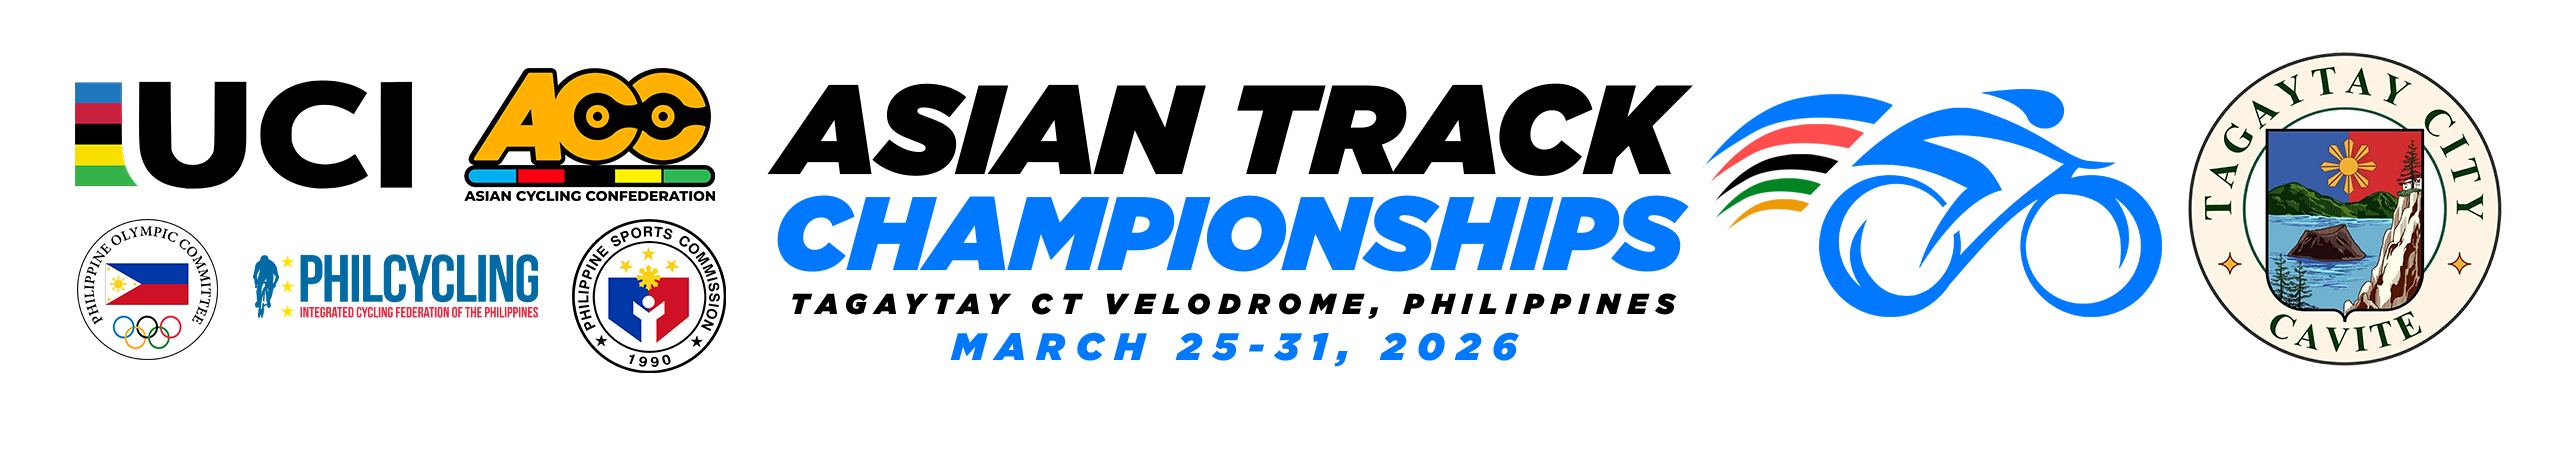
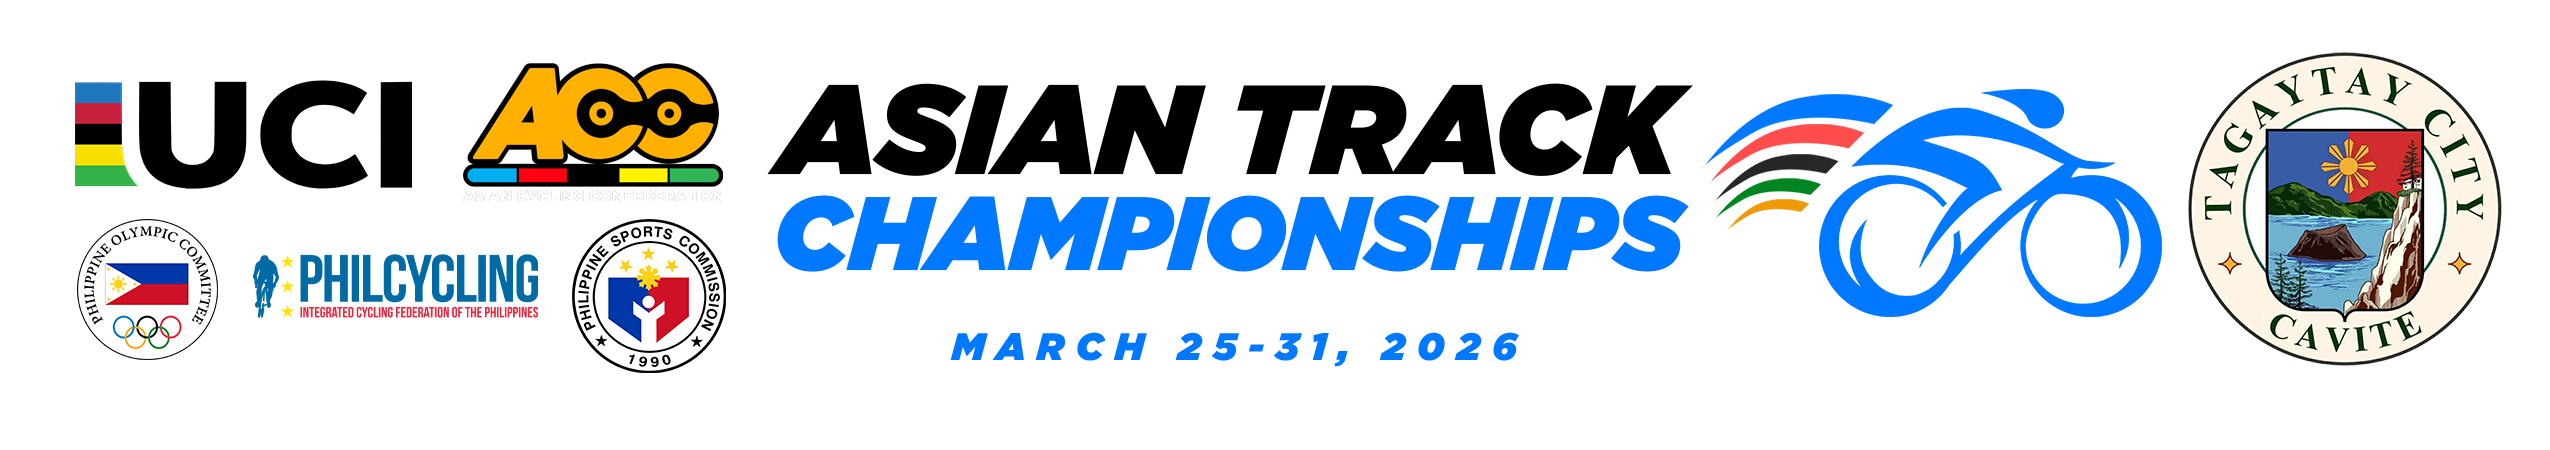
updated

Changed region(s): [[0.1859, 0.1244, 0.3098, 0.4667], [0.3098, 0.6533, 0.6816, 0.7156], [0.6816, 0.3422, 0.7435, 0.4044]]

diff --git a/about.html b/about.html
@@ -53,7 +53,35 @@
 		background-color var(--trans-dur),
 		color var(--trans-dur);
 } */
-        
+         .letterhead {
+            /* background: #f6f7e3; */
+            /* background: rgba(255, 255, 255, 0.95); */
+            /* border-bottom: 1px solid #e5e5e5; */
+        }
+
+        .letterhead-inner {
+            display: flex;
+            justify-content: center; /* centers horizontally */
+            align-items: center;     /* centers vertically */
+            padding: 10px 20px;
+        }
+
+        .letterhead-logo {
+            max-width: 40%;
+            height: auto;
+        }
+
+        .letterhead-logo {
+            max-width: 750px;
+            width: 100%;
+        }
+
+        @media (max-width: 768px) {
+            .letterhead-logo {
+                max-width: 90%;
+            }
+        }
+
         .bike {
             display: block;
             margin: auto;
@@ -332,10 +360,15 @@
     <header id="rtsHeader" class="rts-header1">
         <div class="navbar-sticky">
             <div class="navbar-part navbar-part1">
-                <div class="container">
+           
                     <div class="navbar-inner">
-                        <a href="index.html" class="logo"><img src="assets/images/2023_ACC_BMX_Letterhead_1.png" alt="sportius-logo" width="110" height="150"></a>
-                        <a href="index.html" class="logo-sticky"><img src="assets/images/2023_ACC_BMX_Letterhead_1.png" alt="kester-logo"></a>
+                        <div class="letterhead">
+                            <div class="letterhead-inner">
+                                <img src="assets/images/banner/acc2026-lh.png" alt="ACC Letterhead" class="letterhead-logo">
+                            </div>
+                        </div>
+                        <!-- <a href="index.html" class="logo"><img src="assets/images/2023_ACC_BMX_Letterhead_1.png" alt="sportius-logo" width="110" height="150"></a>
+                        <a href="index.html" class="logo-sticky"><img src="assets/images/2023_ACC_BMX_Letterhead_1.png" alt="kester-logo"></a> -->
                         <div class="rts-menu">
                             <nav class="menus menu-toggle">
                                 <ul class="nav__menu">

diff --git a/team.html b/team.html
@@ -53,7 +53,35 @@
 		background-color var(--trans-dur),
 		color var(--trans-dur);
 } */
-        
+         .letterhead {
+            /* background: #f6f7e3; */
+            /* background: rgba(255, 255, 255, 0.95); */
+            /* border-bottom: 1px solid #e5e5e5; */
+        }
+
+        .letterhead-inner {
+            display: flex;
+            justify-content: center; /* centers horizontally */
+            align-items: center;     /* centers vertically */
+            padding: 10px 20px;
+        }
+
+        .letterhead-logo {
+            max-width: 40%;
+            height: auto;
+        }
+
+        .letterhead-logo {
+            max-width: 750px;
+            width: 100%;
+        }
+
+        @media (max-width: 768px) {
+            .letterhead-logo {
+                max-width: 90%;
+            }
+        }
+
         .bike {
             display: block;
             margin: auto;
@@ -329,9 +357,15 @@
         <div class="navbar-sticky">
             <div class="navbar-part navbar-part1">
                 <div class="container">
+   
                     <div class="navbar-inner">
-                        <a href="index.html" class="logo"><img src="assets/images/2023_ACC_BMX_Letterhead_1.png" alt="sportius-logo" width="110" height="150"></a>
-                        <a href="index.html" class="logo-sticky"><img src="assets/images/2023_ACC_BMX_Letterhead_1.png" alt="kester-logo"></a>
+                        <div class="letterhead">
+                            <div class="letterhead-inner">
+                                <img src="assets/images/banner/acc2026-lh.png" alt="ACC Letterhead" class="letterhead-logo">
+                            </div>
+                        </div>
+                        <!-- <a href="index.html" class="logo"><img src="assets/images/2023_ACC_BMX_Letterhead_1.png" alt="sportius-logo" width="110" height="150"></a>
+                        <a href="index.html" class="logo-sticky"><img src="assets/images/2023_ACC_BMX_Letterhead_1.png" alt="kester-logo"></a> -->
                         <div class="rts-menu">
                             <nav class="menus menu-toggle">
                                 <ul class="nav__menu">

diff --git a/start-list.html b/start-list.html
@@ -53,7 +53,35 @@
 		background-color var(--trans-dur),
 		color var(--trans-dur);
 } */
-        
+         .letterhead {
+            /* background: #f6f7e3; */
+            /* background: rgba(255, 255, 255, 0.95); */
+            /* border-bottom: 1px solid #e5e5e5; */
+        }
+
+        .letterhead-inner {
+            display: flex;
+            justify-content: center; /* centers horizontally */
+            align-items: center;     /* centers vertically */
+            padding: 10px 20px;
+        }
+
+        .letterhead-logo {
+            max-width: 40%;
+            height: auto;
+        }
+
+        .letterhead-logo {
+            max-width: 750px;
+            width: 100%;
+        }
+
+        @media (max-width: 768px) {
+            .letterhead-logo {
+                max-width: 90%;
+            }
+        }
+
         .bike {
             display: block;
             margin: auto;
@@ -330,8 +358,13 @@
             <div class="navbar-part navbar-part1">
                 <div class="container">
                     <div class="navbar-inner">
-                        <a href="index.html" class="logo"><img src="assets/images/2023_ACC_BMX_Letterhead_1.png" alt="sportius-logo" width="110" height="150"></a>
-                        <a href="index.html" class="logo-sticky"><img src="assets/images/2023_ACC_BMX_Letterhead_1.png" alt="kester-logo"></a>
+                        <div class="letterhead">
+                            <div class="letterhead-inner">
+                                <img src="assets/images/banner/acc2026-lh.png" alt="ACC Letterhead" class="letterhead-logo">
+                            </div>
+                        </div>
+                        <!-- <a href="index.html" class="logo"><img src="assets/images/2023_ACC_BMX_Letterhead_1.png" alt="sportius-logo" width="110" height="150"></a>
+                        <a href="index.html" class="logo-sticky"><img src="assets/images/2023_ACC_BMX_Letterhead_1.png" alt="kester-logo"></a> -->
                         <div class="rts-menu">
                             <nav class="menus menu-toggle">
                                 <ul class="nav__menu">

diff --git a/venue.html b/venue.html
@@ -53,7 +53,35 @@
 		background-color var(--trans-dur),
 		color var(--trans-dur);
 } */
-        
+         .letterhead {
+            /* background: #f6f7e3; */
+            /* background: rgba(255, 255, 255, 0.95); */
+            /* border-bottom: 1px solid #e5e5e5; */
+        }
+
+        .letterhead-inner {
+            display: flex;
+            justify-content: center; /* centers horizontally */
+            align-items: center;     /* centers vertically */
+            padding: 10px 20px;
+        }
+
+        .letterhead-logo {
+            max-width: 40%;
+            height: auto;
+        }
+
+        .letterhead-logo {
+            max-width: 750px;
+            width: 100%;
+        }
+
+        @media (max-width: 768px) {
+            .letterhead-logo {
+                max-width: 90%;
+            }
+        }
+
         .bike {
             display: block;
             margin: auto;
@@ -347,8 +375,13 @@
             <div class="navbar-part navbar-part1">
                 <div class="container">
                     <div class="navbar-inner">
-                        <a href="index.html" class="logo"><img src="assets/images/2023_ACC_BMX_Letterhead_1.png" alt="sportius-logo" width="110" height="150"></a>
-                        <a href="index.html" class="logo-sticky"><img src="assets/images/2023_ACC_BMX_Letterhead_1.png" alt="kester-logo"></a>
+                        <div class="letterhead">
+                            <div class="letterhead-inner">
+                                <img src="assets/images/banner/acc2026-lh.png" alt="ACC Letterhead" class="letterhead-logo">
+                            </div>
+                        </div>
+                        <!-- <a href="index.html" class="logo"><img src="assets/images/2023_ACC_BMX_Letterhead_1.png" alt="sportius-logo" width="110" height="150"></a>
+                        <a href="index.html" class="logo-sticky"><img src="assets/images/2023_ACC_BMX_Letterhead_1.png" alt="kester-logo"></a> -->
                         <div class="rts-menu">
                             <nav class="menus menu-toggle">
                                 <ul class="nav__menu">

diff --git a/index.html b/index.html
@@ -54,8 +54,9 @@
 		color var(--trans-dur);
 } */
         .letterhead {
-            background: #f6f7e3;
-            border-bottom: 1px solid #e5e5e5;
+            /* background: #f6f7e3; */
+            /* background: rgba(255, 255, 255, 0.95); */
+            /* border-bottom: 1px solid #e5e5e5; */
         }
 
         .letterhead-inner {
@@ -66,12 +67,12 @@
         }
 
         .letterhead-logo {
-            max-width: 30%;
+            max-width: 40%;
             height: auto;
         }
 
         .letterhead-logo {
-            max-width: 600px;
+            max-width: 750px;
             width: 100%;
         }
 
@@ -391,14 +392,19 @@
         <div class="navbar-sticky">
             <div class="navbar-part navbar-part1">
                 <div class="container">
-                    <div class="letterhead">
+                    <!-- <div class="letterhead">
                         <div class="letterhead-inner">
                             <img src="assets/images/banner/acc2026-lh.png" alt="ACC Letterhead" class="letterhead-logo">
                         </div>
-                    </div>
+                    </div> -->
 
                     <div class="navbar-inner">
-                        <a href="index.html" class="logo"><img src="assets/images/2023_ACC_BMX_Letterhead_1.png" alt="sportius-logo" width="110" height="150"></a>
+                        <div class="letterhead">
+                            <div class="letterhead-inner">
+                                <img src="assets/images/banner/acc2026-lh.png" alt="ACC Letterhead" class="letterhead-logo">
+                            </div>
+                        </div>
+                        <!-- <a href="index.html" class="logo"><img src="assets/images/2023_ACC_BMX_Letterhead_1.png" alt="sportius-logo" width="110" height="150"></a> -->
                         <!-- <a href="index.html" class="logo-sticky"><img src="assets/images/2023_ACC_BMX_Letterhead_1.png" alt="kester-logo"></a> -->
                         <div class="rts-menu">
                             <nav class="menus menu-toggle">
